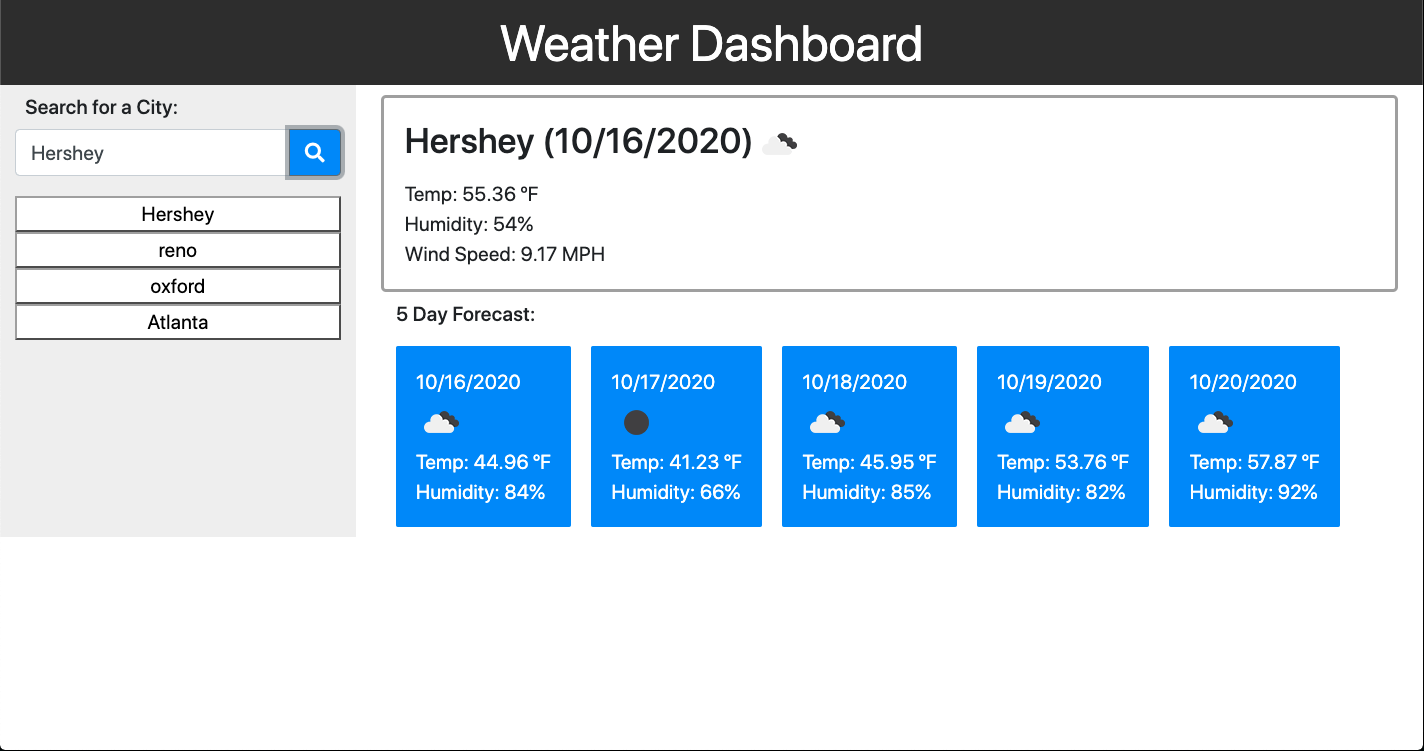
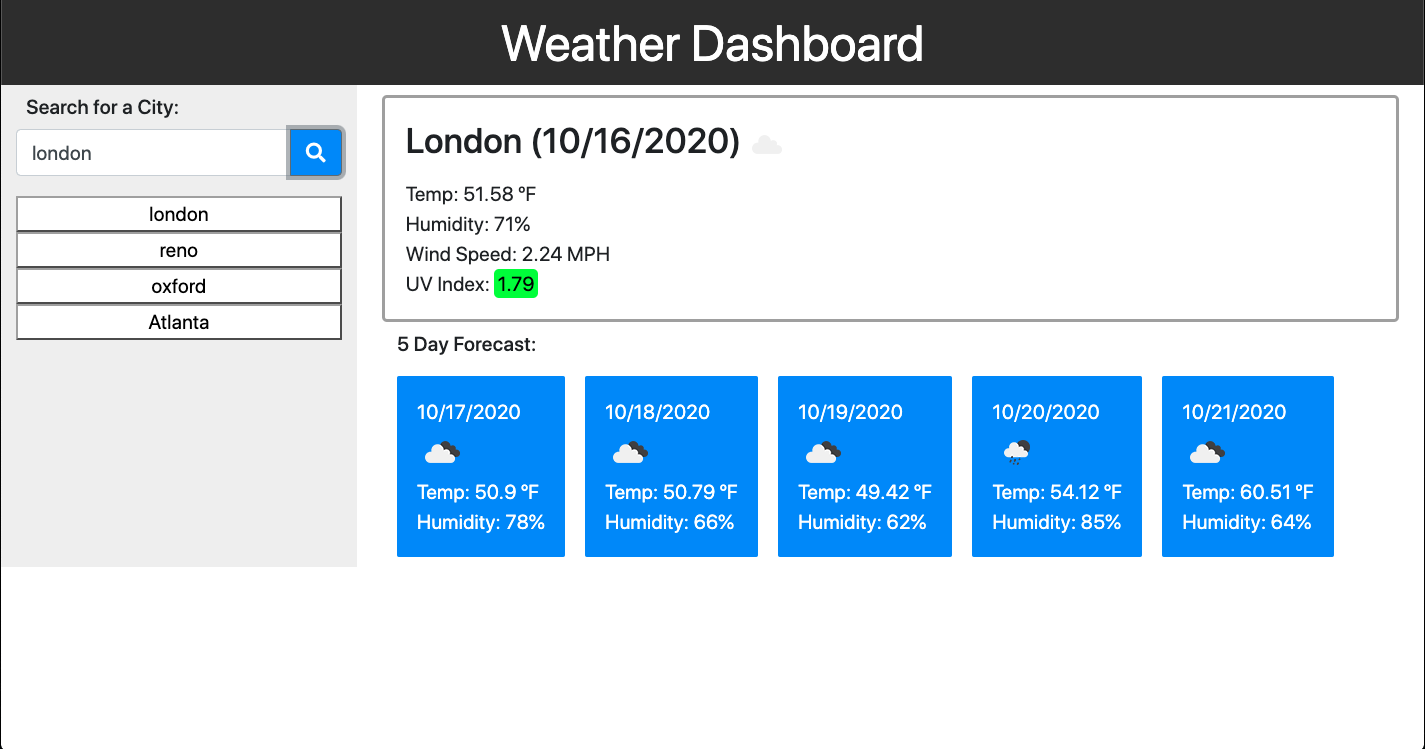
Added css and conditionals to change the color of the index background.

diff --git a/script.js b/script.js
@@ -47,7 +47,7 @@ $(document).ready(function () {
       APIKey +
       "&units=imperial";
 
-    // We then created an AJAX call
+    // we create the ajax call to get the information we need from the API.
     $.ajax({
       url: queryURL,
       method: "GET",
@@ -73,7 +73,22 @@ $(document).ready(function () {
         url: uvUrl,
         method: "GET",
       }).then(function (response) {
-        $(".uvIndex").text("UV Index: " + response.value);
+// these appends the UV Index  to thw current weather to the screen.
+        $(".uvIndex").text("UV Index: ").append("<span class='uv'>"+ response.value +'</span>');
+// these conditionals change the background color of the UV index depending on how high the index is.
+        if (response.value <= 3) {
+          $(".uv").attr("class", "low");
+        }
+        //when is it past?
+        if (response.value >= 7) {
+          $(".uv").attr("class", "high");
+        }
+
+        if (response.value > 3 && response.value < 7) {
+          $(".uv").attr("class", "med");
+        }
+
+
       });
 
       // these variables reformat the date as well as hold query for the weather icons

diff --git a/style.css b/style.css
@@ -48,3 +48,25 @@ h6{
     border-color: darkgrey;
     border-radius: 5px;
 }
+/* styling used to illustrate the uv Index */
+.high{
+    background-color: #ff0000;
+    color: white;
+    padding: 3px;
+    border-radius: 5px;
+  }
+  
+  .med {
+    background-color: #ff8800e8;
+    color: black;
+    padding: 3px;
+    border-radius: 5px;
+  }
+  
+  .low {
+    background-color: #00ff00;
+    color: black;
+    padding: 3px;
+    border-radius: 5px;
+  }
+  

diff --git a/README.md b/README.md
@@ -14,7 +14,7 @@ Or you can just click here: https://dnfrancis22.github.io/weather-dashboard/
 
 **Usage**
 
-When the page loads type the name of a city into the search field and click the search button. You will be presented with the current weather and a five daily forecast. A button will be generated that is linked to the city you searched for. when that button is clicked the weather information for that city will be recalled. 
+When the page loads type the name of a city into the search field and click the search button. You will be presented with the current weather and a five daily forecast. A button will be generated that is linked to the city you searched for. When that button is clicked the weather information for that city will be recalled. 
 
 ![planner](./assets/weatherApp.png)
 
